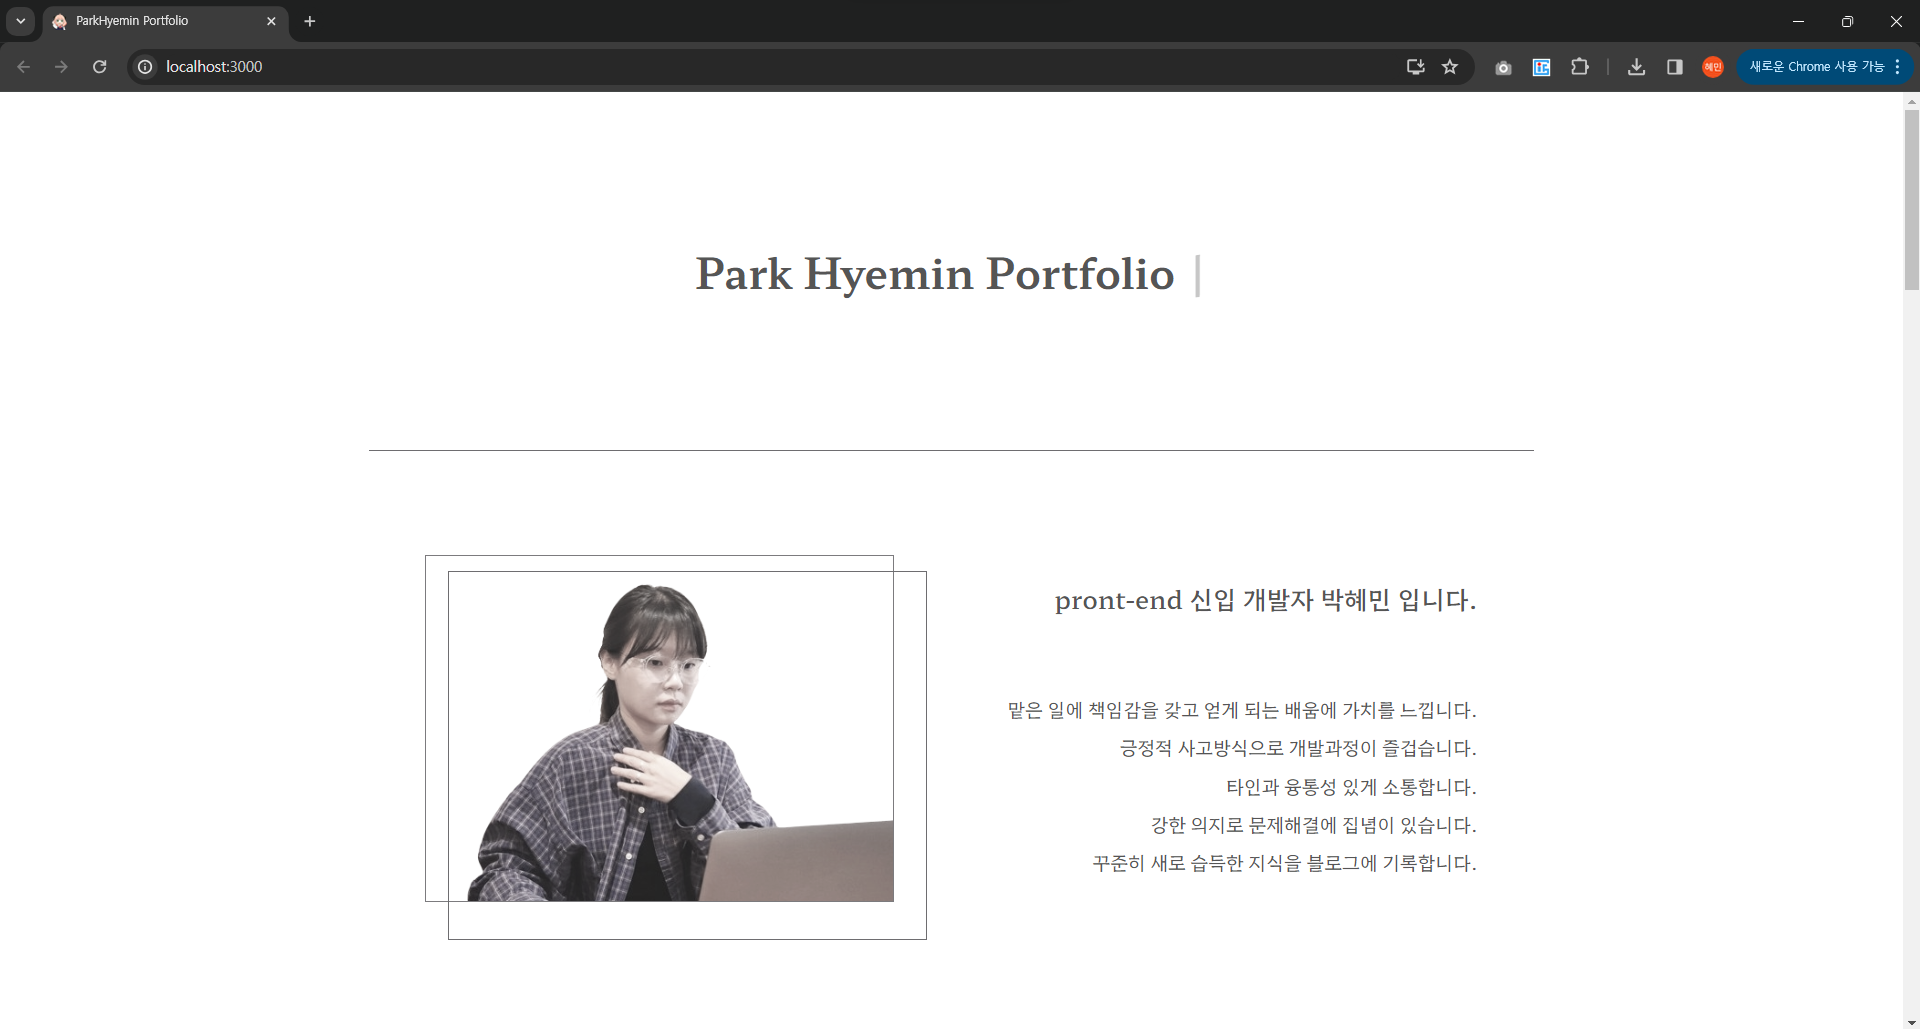
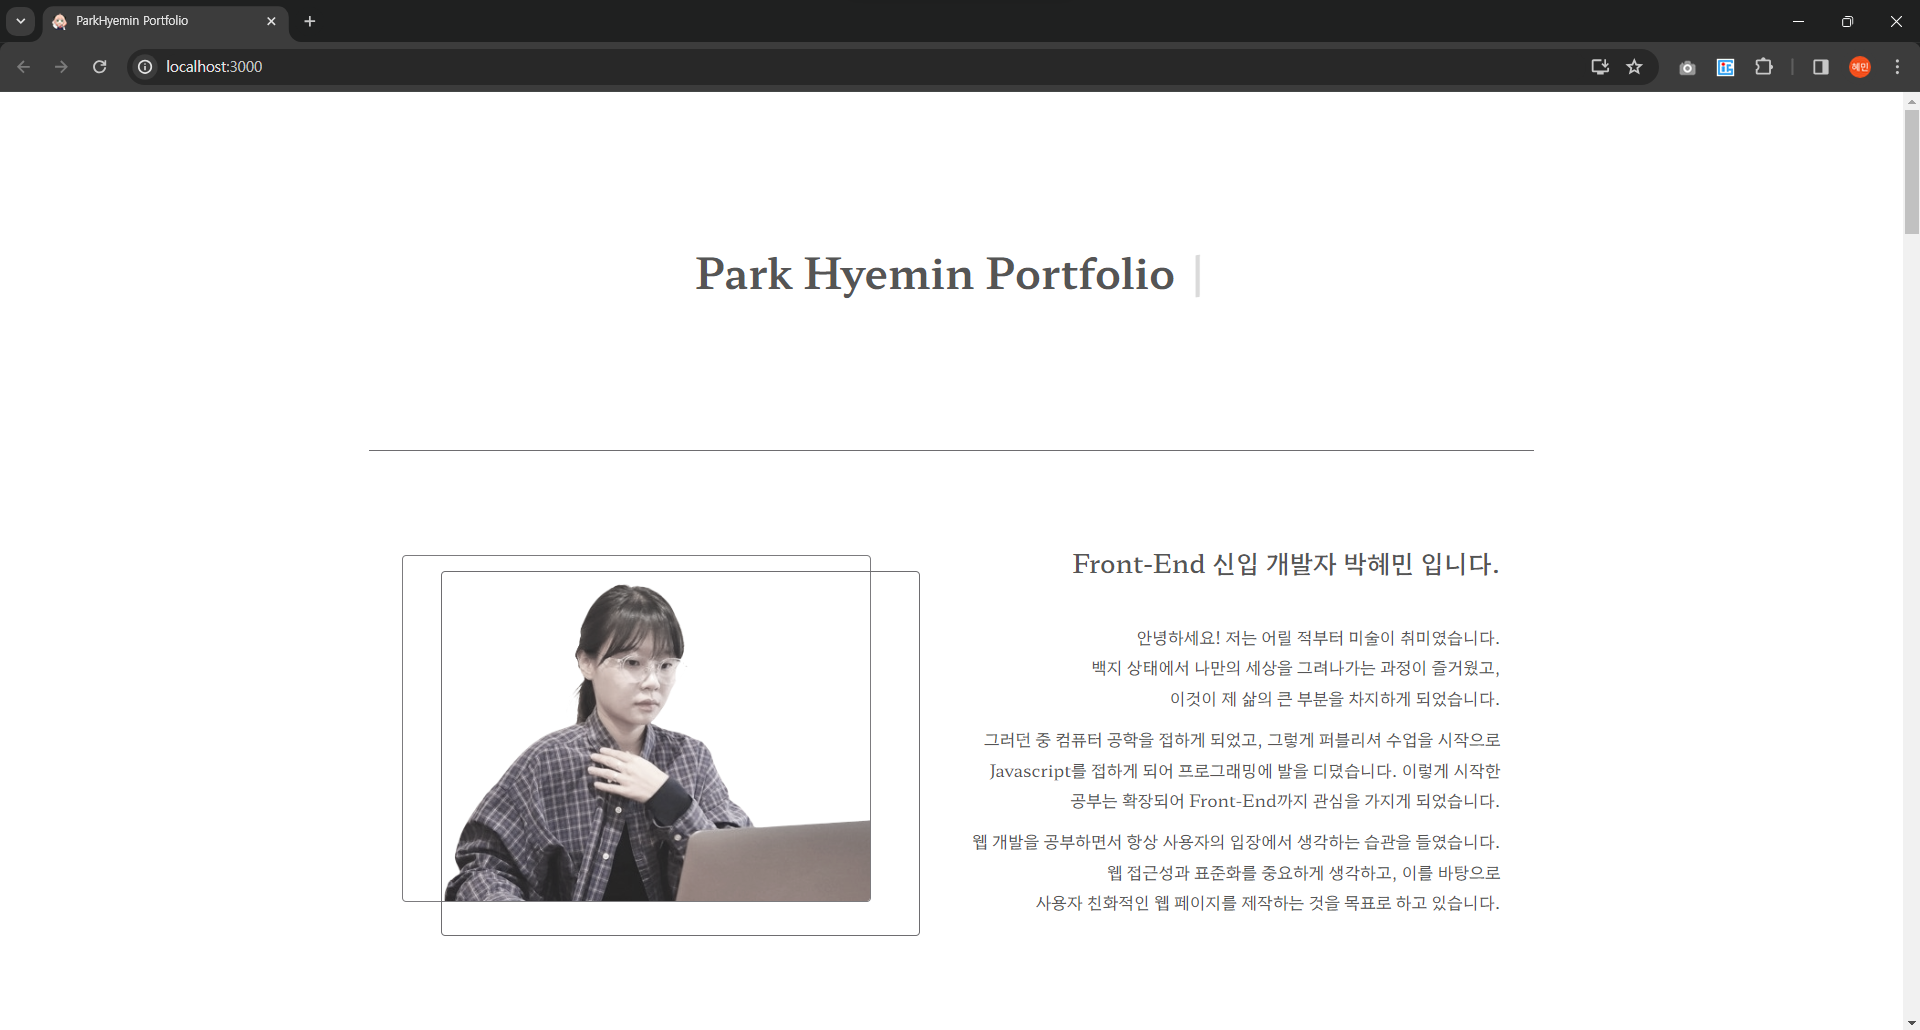
main text 변경 img 변경

diff --git a/react-portfolio/src/components/SubProjectContents.js b/react-portfolio/src/components/SubProjectContents.js
@@ -236,41 +236,41 @@ div{
     gap: 12px;
     margin: 0 16px;
 
-    p{
-        position: relative;
-        text-align: justify;
-        word-break: break-all;
-        line-height: 1.6;
-        padding-bottom: 4px;
-        border-bottom: 1px solid rgba(0, 0, 0, 0.1);
-    }
+  p{
+      position: relative;
+      text-align: justify;
+      word-break: break-all;
+      line-height: 1.6;
+      padding-bottom: 4px;
+      border-bottom: 1px solid rgba(0, 0, 0, 0.1);
+  }
 
-    p::before{
-        content: '';
-        position: absolute;
-        top: 7px;
-        left: -23px;
-
-        width: 14px;
-        height: 14px;
-        
-        background-image: url(${ico_click});
-        background-size: cover;
-        background-position: center;
-    }
+  p::before{
+      content: '';
+      position: absolute;
+      top: 7px;
+      left: -23px;
+      
+      width: 14px;
+      height: 14px;
+      
+      background-image: url(${ico_click});
+      background-size: cover;
+      background-position: center;
+  }
 }
 `
 
 const ModalTextPagination = styled.div`
-    display: flex;
-    align-items: center;
-
-    gap: 39px;
-    margin-top: 64px;
-    img{
-      width: 550px;
-      box-shadow: rgba(0, 0, 0, 0.1) 0px 2px 4px, rgba(0, 0, 0, 0.1) 0px 7px 13px -3px, rgba(0, 0, 0, 0.1) 0px 0px 0px inset;
-    }
+  display: flex;
+  align-items: center;
+  
+  gap: 39px;
+  margin-top: 64px;
+  img{
+    width: 550px;
+    box-shadow: rgba(0, 0, 0, 0.1) 0px 2px 4px, rgba(0, 0, 0, 0.1) 0px 7px 13px -3px, rgba(0, 0, 0, 0.1) 0px 0px 0px inset;
+  }
 
 div{
     display: flex;
@@ -279,28 +279,26 @@ div{
     gap: 12px;
     margin: 0 16px;
 
-    p{
-        position: relative;
-        text-align: justify;
-        word-break: break-all;
-        line-height: 1.6;
-        padding-bottom: 4px;
-        border-bottom: 1px solid rgba(0, 0, 0, 0.1);
-    }
-
-    p::before{
-        content: '';
-        position: absolute;
-        top: 7px;
-        left: -23px;
-
-        width: 14px;
-        height: 14px;
-        
-        background-image: url(${ico_click});
-        background-size: cover;
-        background-position: center;
-    }
+  p{
+      position: relative;
+      text-align: justify;
+      word-break: break-all;
+      line-height: 1.6;
+      padding-bottom: 4px;
+      border-bottom: 1px solid rgba(0, 0, 0, 0.1);
+  }
+  p::before{
+      content: '';
+      position: absolute;
+      top: 7px;
+      left: -23px;
+      width: 14px;
+      height: 14px;
+      
+      background-image: url(${ico_click});
+      background-size: cover;
+      background-position: center;
+  }
 }
 `
 
@@ -350,16 +348,16 @@ const SubProjectText = styled.section`
     font-size: 15px;
   }
 
-  a{
-    display: flex;
-    align-items: center;
-    justify-content: center;
-    gap: 4px;
-    margin-top: 10px;
-    padding: 6px;
-  
+a{
+  display: flex;
+  align-items: center;
+  justify-content: center;
+  gap: 4px;
+  margin-top: 10px;
+  padding: 6px;
+
   font-size: 16px;
-  
+
   box-sizing: border-box;
   background-color: #fff;
   border: 1px solid rgba(0, 0, 0, 0.1);
@@ -367,13 +365,11 @@ const SubProjectText = styled.section`
   box-shadow: rgba(0, 0, 0, 0.1) 0px 1px 3px, rgba(0, 0, 0, 0.1) 0px 5px 10px -1px, 0px 0px 0px inset;
   transition: all .2s;
   cursor: pointer;
-
   &:hover {
     color: #fff;
     background-color: #6E6D70;
     box-shadow: rgba(0, 0, 0, 0.2) 0 8px 15px;
     transform: translateY(-2px);
-
     :first-child{
       display: none;
     }
@@ -381,11 +377,10 @@ const SubProjectText = styled.section`
       display: block;
     }
   }
-
   &:active {
     transform: translateY(0);
   }
-}
+} 
 
   button{
   display: flex;

diff --git a/react-portfolio/src/components/ContactContents.js b/react-portfolio/src/components/ContactContents.js
@@ -84,6 +84,7 @@ const ContactBox = styled.div`
 
   font-size: 20px;
   font-weight: 400;
+
   div{
     margin-bottom: 6px;
   }
@@ -94,6 +95,7 @@ const ContactBox = styled.div`
     font-size: 18px;
     font-weight: 400;
   }
+  
   div:nth-child(3){
     margin-bottom: 40px;
   }
@@ -101,8 +103,8 @@ const ContactBox = styled.div`
 
 const Contact = styled.div`
   display: flex;
-  align-items: center;
   justify-content: center;
+  align-items: center;
   
   gap: 6px;
   
@@ -115,10 +117,11 @@ const Contact = styled.div`
 `
 
 const ContactImg = styled.img`
-  width: 21px;
   display: flex;
   justify-content: center;
   align-items: center;
+
+  width: 21px;
 `
 
 const ContactImgHover = styled.img`
@@ -133,54 +136,54 @@ const StudyPage = styled.div`
 
   font-size: 18px;
 
-p{
-  margin-bottom: 8px;
-}
+  p{
+    margin-bottom: 8px;
+  }
 
-a{
-  display: flex;
-  justify-content: center;
-  align-items: center;
+  a{
+    display: flex;
+    justify-content: center;
+    align-items: center;
 
-  gap: 6px;
-  padding: 14px;  
+    gap: 6px;
+    padding: 14px;  
 
-  font-size: 18px;
-  font-weight: 500;
+    font-size: 18px;
+    font-weight: 500;
 
-  background-color: rgba(0, 0, 0, 0.05);
-  border-radius: 10px;
-  cursor: pointer;
-  transition: all .1s cubic-bezier(.25, 1, 0.35, 1); 
-  box-shadow: inset 0 0 0 1px hsla(0, 0%, 0%, .2),
-    inset 0 2px 0 hsla(0, 0%, 100%, .1),
-    inset 0 1.2em 0 hsla(0, 0%, 100%, 0.1),
-    inset 0 -.2em 0 hsla(0, 0%, 100%, .1),
-    inset 0 -.28em 0 hsla(0, 0%, 0%, .1),
-    0 .25em .25em hsla(0, 0%, 0%, .05);
+    background-color: rgba(0, 0, 0, 0.05);
+    border-radius: 10px;
+    cursor: pointer;
+    box-shadow: inset 0 0 0 1px hsla(0, 0%, 0%, .2),
+      inset 0 2px 0 hsla(0, 0%, 100%, .1),
+      inset 0 1.2em 0 hsla(0, 0%, 100%, 0.1),
+      inset 0 -.2em 0 hsla(0, 0%, 100%, .1),
+      inset 0 -.28em 0 hsla(0, 0%, 0%, .1),
+      0 .25em .25em hsla(0, 0%, 0%, .05);
 
-&:hover {
-  color: #fff;
-  background-color: #6E6D70;
-
-  transform: translateY(-1px);
-  box-shadow: rgba(0, 0, 0, 0.25) 0 8px 15px,
-    inset 0 2px 0 hsla(0, 0%, 100%, .1),
-    inset 0 1.2em 0 hsla(0, 0%, 100%, 0.1),
-    inset 0 -.2em 0 hsla(0, 0%, 100%, .1),
-    inset 0 -.28em 0 hsla(0, 0%, 0%, .1),
-    0 .25em .25em hsla(0, 0%, 0%, .05);
-    :first-child{
-      display: none;
+    &:hover {
+      color: #fff;
+      background-color: #6E6D70;
+    
+      transform: translateY(-1px);
+      box-shadow: rgba(0, 0, 0, 0.25) 0 8px 15px,
+      /* hsla - 색상 채도 명도 불투명도 */
+        inset 0 2px 0 hsla(0, 0%, 100%, .1),
+        inset 0 1.2em 0 hsla(0, 0%, 100%, 0.1),
+        inset 0 -.2em 0 hsla(0, 0%, 100%, .1),
+        inset 0 -.28em 0 hsla(0, 0%, 0%, .1),
+        0 .25em .25em hsla(0, 0%, 0%, .05);
+        :first-child{
+          display: none;
+        }
+        :nth-child(2){
+          display: block;
+        }
     }
-    :nth-child(2){
-      display: block;
+  
+    &:active {
+      box-shadow: none;
+      transform: translateY(0);
     }
-}
-
-&:active {
-  box-shadow: none;
-  transform: translateY(0);
-}
-}
+  }
 `

diff --git a/react-portfolio/src/components/Main.js b/react-portfolio/src/components/Main.js
@@ -35,8 +35,8 @@ const Main = () => {
                             <div>Front-End 신입 개발자 박혜민 입니다.</div>
                             <ProfileTextAbout>
                                 <div>
-                                  어릴 적부터 미술이 취미였습니다. 
-                                  백지 상태에서 나만의 세상을 그려나가는 과정이 항상 즐거웠고, 
+                                  안녕하세요! 저는 어릴 적부터 미술이 취미였습니다.<br/> 
+                                  백지 상태에서 나만의 세상을 그려나가는 과정이 즐거웠고,<br/>  
                                   이것이 제 삶의 큰 부분을 차지하게 되었습니다. 
                                   </div>
                                   <div>
@@ -46,7 +46,7 @@ const Main = () => {
                                   </div>
                                   <div>
                                   웹 개발을 공부하면서 항상 사용자의 입장에서 생각하는 습관을 들였습니다. 
-                                  웹 접근성과 표준화를 중요하게 생각하고, 이를 바탕으로 사용자 친화적인 
+                                  웹 접근성과 표준화를 중요하게 생각하고, 이를 바탕으로 <br/> 사용자 친화적인 
                                   웹 페이지를 제작하는 것을 목표로 하고 있습니다. 
                                   </div>
                             </ProfileTextAbout>
@@ -86,7 +86,6 @@ const fadeInLeft = keyframes`
 	0% {
 		opacity: 0;
 		transform: translate3d(-5%, 0, 0);
-    /* transition-delay: calc(var(--delay)* .5s); */
 	}
 	100% {
 		opacity: .9;
@@ -98,7 +97,6 @@ const fadeInRight = keyframes`
 	0% {
 		opacity: 0;
 		transform: translate3d(30%, 0, 0);
-    /* transition-delay: calc(var(--delay)* .5s); */
 	}
 	100% {
 		opacity: 1;
@@ -110,6 +108,7 @@ const ProfileImg = styled.img`
   width: 440px;
   
   border: 1px solid #6E6D70;
+  border-radius: 4px;
   opacity: .9;
 
   animation: ${fadeInLeft} 2s ease-out;
@@ -118,12 +117,13 @@ const ProfileImg = styled.img`
 const ImgFrame = styled.div`
   position: absolute;
   top: 13px;
-  left: 75px;
+  left: 68px;
 
   width: 450px;
-  height: 347px;
+  height: 343px;
   
   border: 1px solid #6E6D70;
+  border-radius: 4px;
   animation: ${fadeInRight} 2s ease-out;
 `
 
@@ -137,6 +137,7 @@ const fadeIn = keyframes`
 `
 
 const ProfileText = styled.div`
+  margin-left: 30px;
   text-align: end;
   
   font-size: 24px;
@@ -149,8 +150,6 @@ const ProfileTextAbout = styled.div`
   margin-top: 40px;
 
   width: 500px;
-  
-  text-align: end;
   
   font-size: 16px;
   font-weight: 400;

diff --git a/react-portfolio/src/components/ProjectContents.js b/react-portfolio/src/components/ProjectContents.js
@@ -157,7 +157,7 @@ const ProjectWrapImg = styled.img`
 
 const ProjectHomepageImg = styled.img`
   position: absolute;
-  top: 20px;
+  top: 19px;
   left: 57px;
   
   width: 496px;
